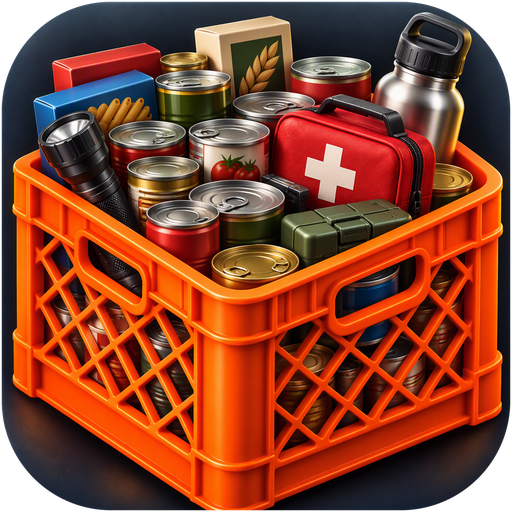
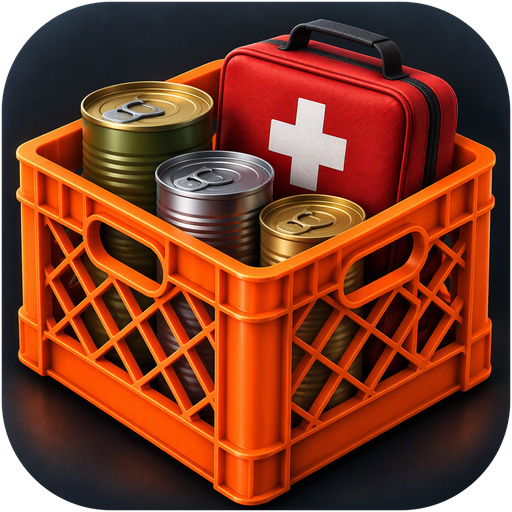
Add files via upload

diff --git a/index.html b/index.html
@@ -4,8 +4,8 @@
 <meta charset="utf-8">
 <meta name="viewport" content="width=device-width, initial-scale=1, viewport-fit=cover">
 <title>Emergency reserve</title>
-<link rel="icon" type="image/png" href="favicon.png?v=2">
-<link rel="apple-touch-icon" sizes="180x180" href="icon-180.png?v=2">
+<link rel="icon" type="image/png" href="favicon.png?v=3">
+<link rel="apple-touch-icon" sizes="180x180" href="icon-180.png?v=3">
 <meta name="apple-mobile-web-app-title" content="Reserve">
 <meta name="theme-color" content="#0f1410">
 <link rel="stylesheet" href="https://fonts.googleapis.com/css2?family=Barlow:wght@400;500;600&family=Barlow+Semi+Condensed:wght@600;700&display=swap">
@@ -146,7 +146,7 @@ button.fb{cursor:pointer}
 <filter id="fSoft" x="-60%" y="-40%" width="220%" height="180%"><feGaussianBlur stdDeviation="1.6"/></filter>
 </defs></svg>
 <main>
-<div class="head"><img src="icon-512.png?v=2" alt=""><div><h1>Emergency reserve</h1>
+<div class="head"><img src="icon-512.png?v=3" alt=""><div><h1>Emergency reserve</h1>
 <p class="sub">Track what you have stored and when it needs replacing.</p></div></div>
 <div id="tiles" class="tiles"></div>
 <div id="flag" class="flag" role="status"></div>
@@ -163,7 +163,7 @@ button.fb{cursor:pointer}
 <div id="list"></div>
 <section id="settings" hidden>
 <div class="box open"><div class="bh"><span class="ico line" aria-hidden="true"><svg viewBox="0 0 24 24"><path d="M12 4v11M7 11l5 5 5-5M5 20h14"/></svg></span><span class="h2">Backup</span></div>
-<div class="bb"><p>Your list is saved in this browser only. Download a backup to keep a copy, or to move your list to another phone or computer.</p>
+<div class="bb"><p>Your list is saved in this browser only. Download a backup to keep a copy, or to move your list to another phone or computer. On iPhone, choose <b>Save to Files</b> in the share sheet that appears.</p>
 <div class="bk">
 <button type="button" id="dl"><svg viewBox="0 0 24 24"><path d="M12 4v11M7 11l5 5 5-5M5 20h14"/></svg>Download backup</button>
 <button type="button" id="rs"><svg viewBox="0 0 24 24"><path d="M12 16V5M7 9l5-5 5 5M5 20h14"/></svg>Restore backup</button>
@@ -264,12 +264,20 @@ document.addEventListener("click",e=>{
 document.addEventListener("change",e=>{if(e.target.classList.contains("ed")&&e.target.value){
   const it=items.find(i=>String(i.id)===e.target.dataset.id);if(it){it.exp=e.target.value;save();render()}}});
 const say=t=>{$("msg").textContent=t;setTimeout(()=>{$("msg").textContent=""},6000)};
-$("dl").onclick=()=>{
-  const blob=new Blob([JSON.stringify({app:"emergency-reserve",exported:new Date().toISOString(),items},null,2)],{type:"application/json"});
-  const a=document.createElement("a");a.href=URL.createObjectURL(blob);
-  a.download=`reserve-backup-${new Date().toISOString().slice(0,10)}.json`;
-  document.body.appendChild(a);a.click();a.remove();setTimeout(()=>URL.revokeObjectURL(a.href),1000);
-  say(`Backup downloaded (${items.length} item${items.length===1?"":"s"}).`)};
+$("dl").onclick=async()=>{
+  const name=`reserve-backup-${new Date().toISOString().slice(0,10)}.json`;
+  const text=JSON.stringify({app:"emergency-reserve",exported:new Date().toISOString(),items},null,2);
+  const done=()=>say(`Backup saved (${items.length} item${items.length===1?"":"s"}).`);
+  const file=new File([text],name,{type:"application/json"});
+  if(window.showSaveFilePicker){
+    try{const h=await showSaveFilePicker({suggestedName:name,types:[{description:"Backup file",accept:{"application/json":[".json"]}}]});
+      const w=await h.createWritable();await w.write(text);await w.close();done();return}
+    catch(e){if(e&&e.name==="AbortError")return}}
+  if(navigator.canShare&&navigator.canShare({files:[file]})){
+    try{await navigator.share({files:[file],title:"Emergency reserve backup"});done();return}
+    catch(e){if(e&&e.name==="AbortError")return}}
+  const a=document.createElement("a");a.href=URL.createObjectURL(new Blob([text],{type:"application/json"}));a.download=name;
+  document.body.appendChild(a);a.click();a.remove();setTimeout(()=>URL.revokeObjectURL(a.href),1000);done()};
 $("rs").onclick=()=>$("file").click();
 $("file").onchange=async e=>{const f=e.target.files[0];e.target.value="";if(!f)return;
   try{
